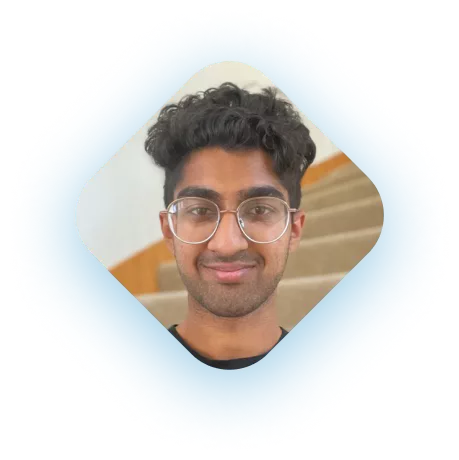
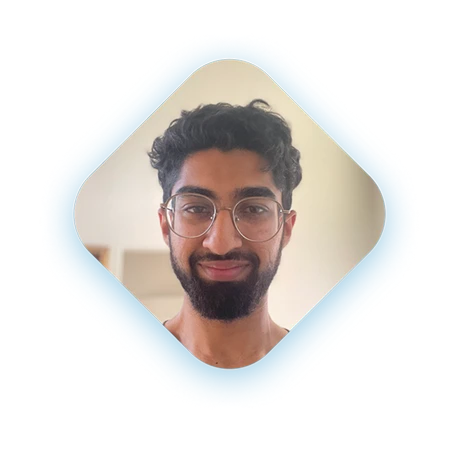
update officers, fix term selection button (#514)
* update officers, fix term selection button

* I FORGOR

* steal from instagram

* unintelligent

* adjust image size

* that didnt actually adjust i guess

* color

* add ai people

diff --git a/src/lib/components/about/officer-profile.svelte b/src/lib/components/about/officer-profile.svelte
@@ -13,7 +13,11 @@
   $: titleHTML = info.positions[VISIBLE_TERMS[$termIndex]].title
     .replace(/Algo\s/, `<b class="acm-purple">Algo&nbsp;</b>`)
     .replace(/Create\s/, `<b class="acm-pink">Create&nbsp;</b>`)
+    .replace(/Design\s/, `<b class="acm-pink">Design&nbsp;</b>`)
     .replace(/Dev\s/, `<b class="acm-bluer">Dev&nbsp;</b>`)
+    .replace(/AI\s/, `<b class="acm-emerald">AI&nbsp;</b>`)
+    .replace(/Marketing\s/, `<b class="acm-red">Marketing&nbsp;</b>`)
+    .replace(/Special Events\s/, `<b class="acm-yellow">Special Events&nbsp;</b>`)
     .replace(/nodebuds\s/, `<span class="brand-header">Node Buds&nbsp;</span>`);
   $: officerTier = dev ? TIERS[info.positions[VISIBLE_TERMS[$termIndex]].tier] : '';
 </script>

diff --git a/static/global.css b/static/global.css
@@ -4,6 +4,7 @@
   --acm-blue: #2c91c6;
   --acm-bluer: #1e6cff;
   --acm-emerald: #21d19f;
+  --acm-yellow: #ffd029;
   --acm-dark: #101315;
   --acm-gray: #292c2f;
   --acm-light: #f8f8f8;
@@ -72,9 +73,15 @@ body {
 .brand-bluer {
   color: var(--acm-bluer);
 }
+
 .acm-emerald,
 .brand-emerald {
   color: var(--acm-emerald);
+}
+
+.acm-yellow,
+.brand-yellow {
+  color: var(--acm-yellow);
 }
 
 .acm-dark,

diff --git a/src/lib/constants/officers.ts b/src/lib/constants/officers.ts
@@ -22,7 +22,7 @@ export interface Officer {
   };
 }
 
-export const VISIBLE_TERMS = [Term.Spring22, Term.Fall21, Term.Spring21];
+export const VISIBLE_TERMS = [Term.Fall22, Term.Spring22, Term.Fall21, Term.Spring21];
 
 export const OFFICERS: Officer[] = [...OFFICERS_JSON];
 

diff --git a/src/lib/components/utils/acm-select.svelte b/src/lib/components/utils/acm-select.svelte
@@ -39,6 +39,8 @@
       justify-content: center;
       font-size: var(--size-sm);
       user-select: none;
+      text-align: center;
+      width: 9em;
 
       .option-choice,
       .selected {
